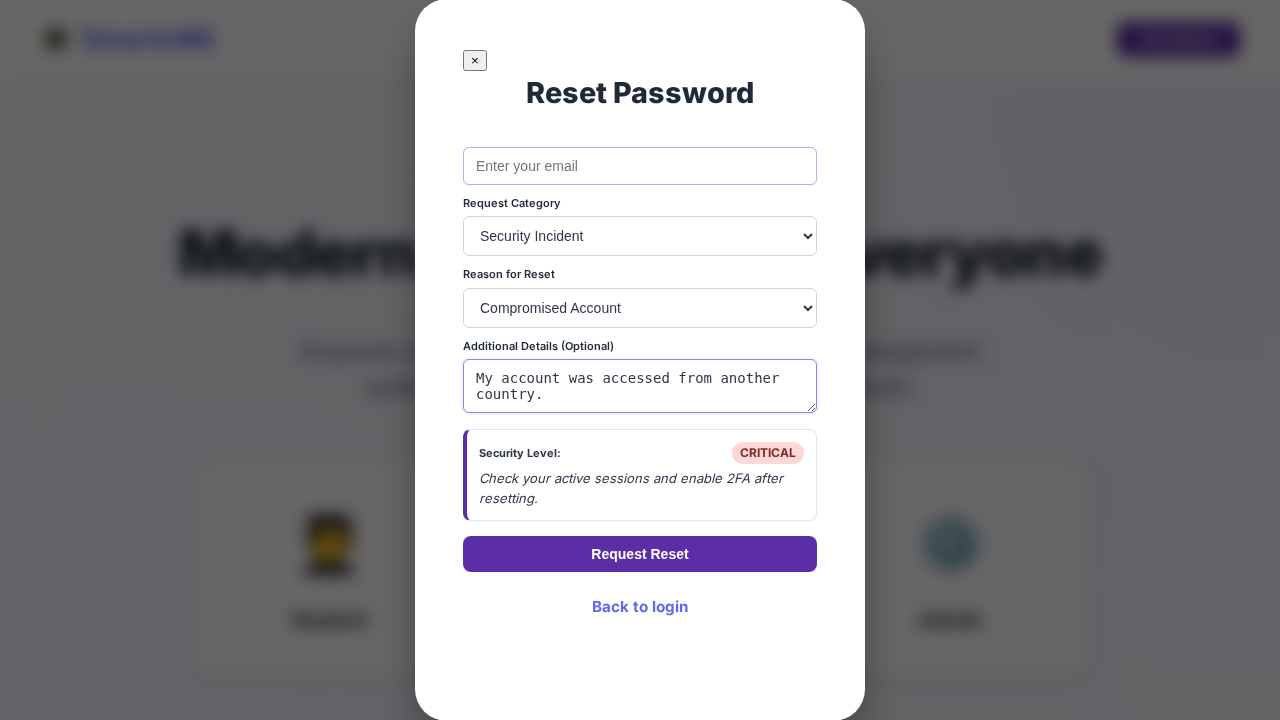
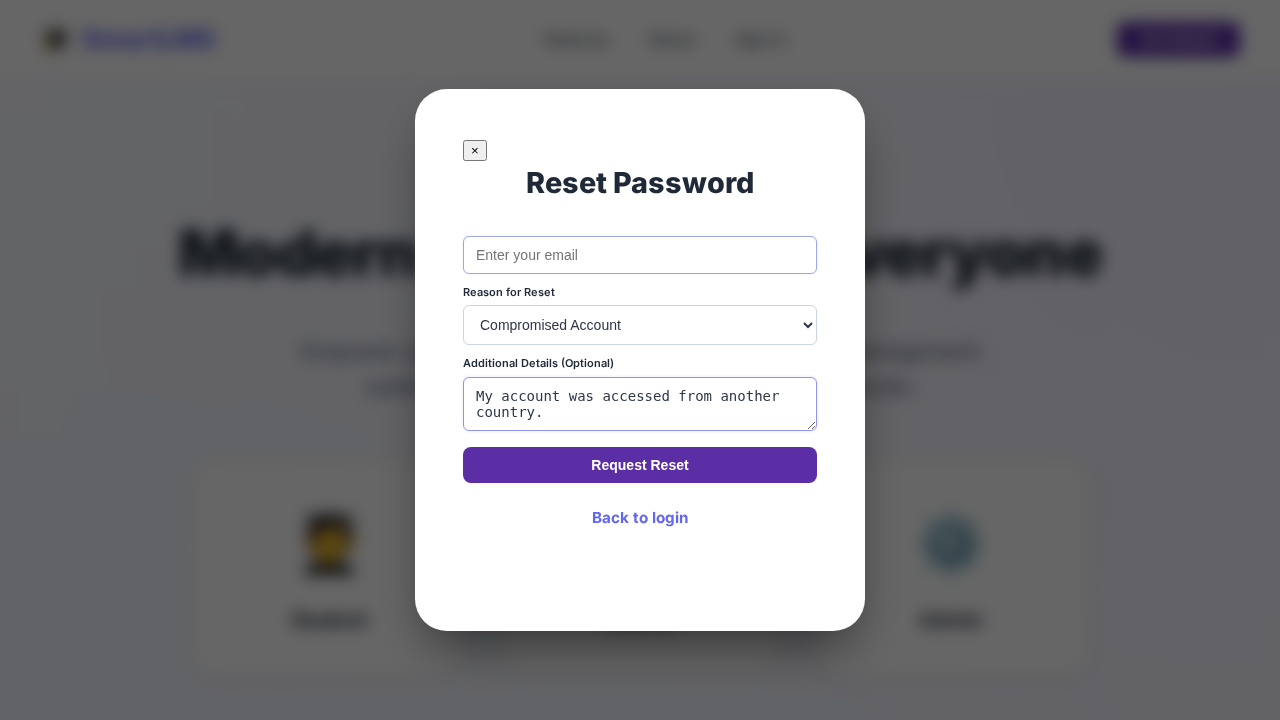
Refine password reset flow and enhance security
- Simplified reset password form by removing category and security level selection.
- Implemented server-side reset request categorization via database trigger.
- Enhanced password strength requirements to 10+ characters.
- Hid plain-text temporary passwords from user-facing error messages.
- Improved administrative temporary password generation for better security.
- Verified session invalidation and force password change logic.

diff --git a/js/auth.js b/js/auth.js
@@ -206,65 +206,21 @@ const Auth = {
     },
 
     initResetFormUI() {
-        const catSelect = document.getElementById('resetCategory');
         const reasonSelect = document.getElementById('resetReason');
-        const tipsContainer = document.getElementById('resetTipsContainer');
-        const tipsText = document.getElementById('resetTips');
-        const securityBadge = document.getElementById('resetSecurityLevel');
-
-        if (!catSelect || !reasonSelect) return;
+        if (!reasonSelect) return;
 
         // Reset state
-        catSelect.innerHTML = '<option value="">Select Category...</option>';
-        Object.keys(RESET_TAXONOMY).forEach(cat => {
-            const opt = document.createElement('option');
-            opt.value = cat;
-            opt.textContent = cat;
-            catSelect.appendChild(opt);
-        });
-
         reasonSelect.innerHTML = '<option value="">Select Reason...</option>';
-        reasonSelect.disabled = true;
-        tipsContainer.style.display = 'none';
 
-        catSelect.onchange = () => {
-            const cat = catSelect.value;
-            reasonSelect.innerHTML = '<option value="">Select Reason...</option>';
-            tipsContainer.style.display = 'none';
-
-            if (cat && RESET_TAXONOMY[cat]) {
-                reasonSelect.disabled = false;
-                Object.keys(RESET_TAXONOMY[cat].reasons).forEach(reason => {
-                    const opt = document.createElement('option');
-                    opt.value = reason;
-                    opt.textContent = reason;
-                    reasonSelect.appendChild(opt);
-                });
-            } else {
-                reasonSelect.disabled = true;
-            }
-        };
-
-        reasonSelect.onchange = () => {
-            const cat = catSelect.value;
-            const reason = reasonSelect.value;
-
-            if (cat && reason && RESET_TAXONOMY[cat]?.reasons[reason]) {
-                const data = RESET_TAXONOMY[cat].reasons[reason];
-                tipsContainer.style.display = 'block';
-                tipsText.textContent = data.tip;
-                securityBadge.textContent = data.level;
-
-                // Color badge based on level
-                securityBadge.className = 'badge';
-                if (data.level === 'Critical') securityBadge.classList.add('badge-inactive');
-                else if (data.level === 'High') securityBadge.classList.add('badge-warn');
-                else if (data.level === 'Medium') securityBadge.classList.add('badge-lock');
-                else securityBadge.classList.add('badge-active');
-            } else {
-                tipsContainer.style.display = 'none';
-            }
-        };
+        // Populate flat list of reasons from taxonomy
+        Object.keys(RESET_TAXONOMY).forEach(cat => {
+            Object.keys(RESET_TAXONOMY[cat].reasons).forEach(reason => {
+                const opt = document.createElement('option');
+                opt.value = reason;
+                opt.textContent = reason;
+                reasonSelect.appendChild(opt);
+            });
+        });
     },
     showNewPassword() { this.showSection('newPassword'); },
 
@@ -327,16 +283,18 @@ const Auth = {
 
         container.style.display = 'block';
         let strength = 0;
-        if (password.length >= 8) strength += 25;
-        if (/[A-Z]/.test(password)) strength += 25;
-        if (/[0-9]/.test(password)) strength += 25;
-        if (/[^A-Za-z0-9]/.test(password)) strength += 25;
+        if (password.length >= 10) strength += 20;
+        if (password.length >= 14) strength += 10;
+        if (/[A-Z]/.test(password)) strength += 20;
+        if (/[a-z]/.test(password)) strength += 10;
+        if (/[0-9]/.test(password)) strength += 20;
+        if (/[!@#$%^&*(),.?":{}|<>[\]\\/`~;:'"-=+]/.test(password)) strength += 20;
 
-        meter.style.width = strength + '%';
+        meter.style.width = Math.min(100, strength) + '%';
 
-        if (strength <= 25) meter.style.backgroundColor = 'var(--danger)';
-        else if (strength <= 50) meter.style.backgroundColor = 'var(--warn)';
-        else if (strength <= 75) meter.style.backgroundColor = '#4299e1'; // Blue
+        if (strength <= 40) meter.style.backgroundColor = 'var(--danger)';
+        else if (strength <= 60) meter.style.backgroundColor = 'var(--warn)';
+        else if (strength <= 80) meter.style.backgroundColor = '#4299e1'; // Blue
         else meter.style.backgroundColor = 'var(--ok)';
     }
 };
@@ -429,8 +387,7 @@ document.addEventListener('DOMContentLoaded', () => {
                         return;
                     }
                     if (existing.reset_request.status === 'approved') {
-                        const temp = existing.reset_request.temp_password_plain || '[Contact Admin]';
-                        errorEl.innerHTML = `This account has an approved password reset. Please use the temporary password to login: <strong style="letter-spacing:1px; color:var(--purple)">${escapeHtml(temp)}</strong>`;
+                        errorEl.innerHTML = 'This account has an approved password reset. Please use the temporary password provided by your administrator to login.';
                         return;
                     }
                 }
@@ -442,7 +399,7 @@ document.addEventListener('DOMContentLoaded', () => {
                 return;
             }
             if (!isStrongPassword(password)) {
-                errorEl.innerText = 'Password must be 8+ chars, include upper, lower, number, and special char.';
+                errorEl.innerText = 'Password must be 10+ chars, include upper, lower, number, and special char.';
                 return;
             }
 
@@ -568,12 +525,6 @@ document.addEventListener('DOMContentLoaded', () => {
                 if (!authResult.success) {
                     if (passErr) {
                         passErr.innerText = authResult.message || 'Login failed';
-                        // Re-check for approved reset after a failed attempt to show temp password
-                        const freshUser = await SupabaseDB.getUser(email);
-                        if (freshUser?.reset_request?.status === 'approved') {
-                            const temp = freshUser.reset_request.temp_password_plain || '[Contact Admin]';
-                            passErr.innerHTML = `${authResult.message}. <br>Approved reset found! Use temporary password: <strong style="letter-spacing:1px; color:var(--purple)">${escapeHtml(temp)}</strong>`;
-                        }
                     }
                     return;
                 }
@@ -606,7 +557,6 @@ document.addEventListener('DOMContentLoaded', () => {
         resetForm.addEventListener('submit', async (e) => {
             e.preventDefault();
             const email = normalizeEmail(document.getElementById('resetEmail').value);
-            const category = document.getElementById('resetCategory').value;
             const reason = document.getElementById('resetReason').value;
             const customReason = document.getElementById('resetCustomReason')?.value || '';
 
@@ -619,8 +569,8 @@ document.addEventListener('DOMContentLoaded', () => {
                 return;
             }
 
-            if (!category || !reason) {
-                if (err) err.innerText = 'Please select a category and reason.';
+            if (!reason) {
+                if (err) err.innerText = 'Please select a reason.';
                 return;
             }
 
@@ -672,21 +622,15 @@ document.addEventListener('DOMContentLoaded', () => {
                     return;
                 }
                 if (user.reset_request.status === 'approved') {
-                    const temp = user.reset_request.temp_password_plain || '[Contact Admin]';
-                    if (err) err.innerHTML = `Reset already approved. Use temporary password to login: <strong style="letter-spacing:1px; color:var(--purple)">${escapeHtml(temp)}</strong>`;
+                    if (err) err.innerHTML = 'Reset already approved. Use temporary password provided by administrator to login.';
                     return;
                 }
             }
 
-            const taxonomyData = RESET_TAXONOMY[category].reasons[reason];
-
             user.reset_request = {
                 status: 'pending',
-                category: category,
                 reason: reason,
                 custom_reason: customReason,
-                security_level: taxonomyData.level,
-                tips: taxonomyData.tip,
                 temp_password: null,
                 created_at: new Date().toISOString(),
                 expires_at: null,
@@ -747,7 +691,7 @@ document.addEventListener('DOMContentLoaded', () => {
                 return;
             }
             if (!isStrongPassword(newPass)) {
-                if (err) err.innerText = 'Password must be at least 8 chars with letters and numbers.';
+                if (err) err.innerText = 'Password must be at least 10 chars, include upper, lower, number, and special char.';
                 return;
             }
 

diff --git a/index.html b/index.html
@@ -163,26 +163,13 @@
       <form id="resetForm" novalidate>
         <input type="email" id="resetEmail" placeholder="Enter your email" required>
 
-        <label class="tiny">Request Category</label>
-        <select id="resetCategory" class="mb-10" required>
-          <option value="">Select Category...</option>
-        </select>
-
         <label class="tiny">Reason for Reset</label>
-        <select id="resetReason" class="mb-10" required disabled>
+        <select id="resetReason" class="mb-10" required>
           <option value="">Select Reason...</option>
         </select>
 
         <label class="tiny">Additional Details (Optional)</label>
         <textarea id="resetCustomReason" rows="2" placeholder="Provide any additional context..." class="mb-10"></textarea>
-
-        <div id="resetTipsContainer" class="card" style="display:none; background:var(--bg-light); border-left:4px solid var(--purple); margin-bottom:15px; padding:12px">
-            <div class="flex-between mb-5">
-                <span class="tiny bold">Security Level:</span>
-                <span id="resetSecurityLevel" class="badge">N/A</span>
-            </div>
-            <p id="resetTips" class="small m-0" style="font-style:italic; color:var(--text-muted)"></p>
-        </div>
 
         <button type="submit" class="button">Request Reset</button>
       </form>

diff --git a/js/admin.js b/js/admin.js
@@ -476,9 +476,22 @@ async function approveReset(email) {
   try {
     const user = await SupabaseDB.getUser(email);
     if (user && user.reset_request) {
-      const array = new Uint32Array(1);
-      crypto.getRandomValues(array);
-      const tempPassword = array[0].toString(36).slice(-8);
+      const generateStrongPassword = () => {
+          const chars = "ABCDEFGHIJKLMNOPQRSTUVWXYZabcdefghijklmnopqrstuvwxyz0123456789!@#$%^&*()_+";
+          const array = new Uint8Array(12);
+          crypto.getRandomValues(array);
+          let pass = "";
+          for (let i = 0; i < array.length; i++) {
+              pass += chars[array[i] % chars.length];
+          }
+          // Basic heuristic to ensure all required types are present, if not, retry
+          if (!/[A-Z]/.test(pass) || !/[a-z]/.test(pass) || !/[0-9]/.test(pass) || !/[!@#$%^&*()_+]/.test(pass)) {
+              return generateStrongPassword();
+          }
+          return pass;
+      };
+
+      const tempPassword = generateStrongPassword();
 
       // Hash the temporary password
       const hashedTemp = await window.hashPassword(tempPassword, email);

diff --git a/js/core.js b/js/core.js
@@ -868,11 +868,11 @@ window.isValidEmail = function(email) {
 };
 
 window.isStrongPassword = function(pass) {
-    if (!pass || pass.length < 8) return false;
+    if (!pass || pass.length < 10) return false;
     const hasUpper = /[A-Z]/.test(pass);
     const hasLower = /[a-z]/.test(pass);
     const hasNumber = /\d/.test(pass);
-    const hasSpecial = /[!@#$%^&*(),.?":{}|<>]/.test(pass);
+    const hasSpecial = /[!@#$%^&*(),.?":{}|<>[\]\\/`~;:'"-=+]/.test(pass);
     return hasUpper && hasLower && hasNumber && hasSpecial;
 };
 

diff --git a/verification/verify_reset_flow_v2.py b/verification/verify_reset_flow_v2.py
@@ -16,8 +16,7 @@ def verify_reset_flow_final():
         page.evaluate("showReset()")
         time.sleep(1)
 
-        # 3. Fill Category and Reason
-        page.select_option("#resetCategory", "Security Incident")
+        # 3. Fill Reason
         page.select_option("#resetReason", "Compromised Account")
 
         # 4. Fill Custom Reason
@@ -25,12 +24,6 @@ def verify_reset_flow_final():
 
         page.screenshot(path="verification/reset_flow_with_custom_reason.png")
         print("Custom reason screenshot saved.")
-
-        # 5. Check Tips and Security Level
-        tips_content = page.inner_text("#resetTips")
-        level_content = page.inner_text("#resetSecurityLevel")
-        print(f"Tips Content: {tips_content}")
-        print(f"Level Content: {level_content}")
 
         # 6. Verify Login Error UI
         page.evaluate("showLogin()")
